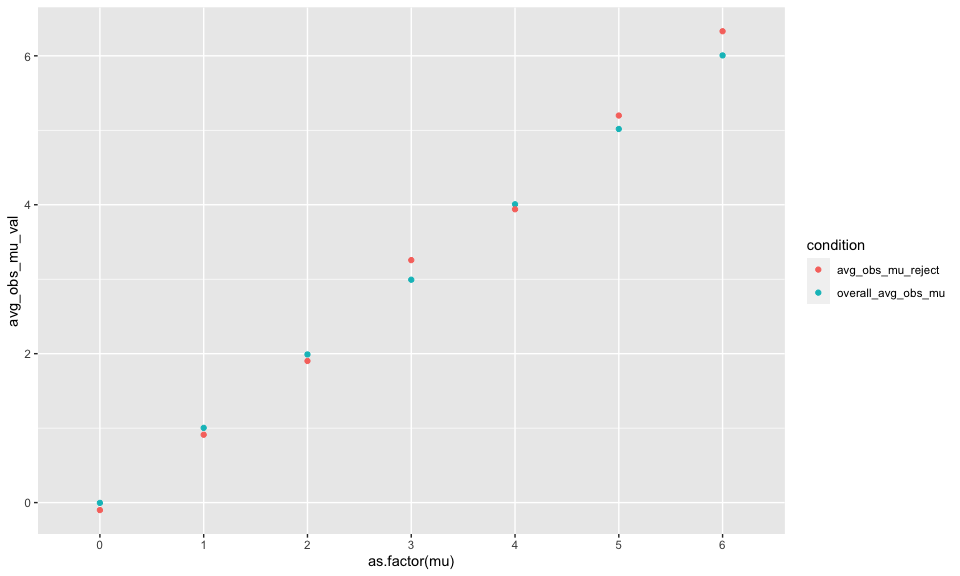
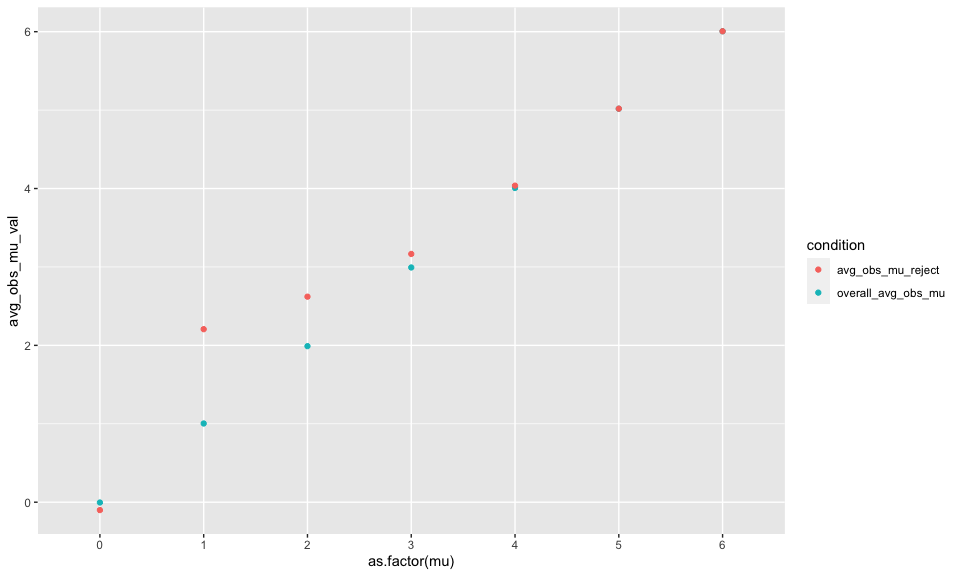
fixed the smol misunderstanding at p3 :')

diff --git a/p8105_hw5_td2749.md b/p8105_hw5_td2749.md
@@ -101,7 +101,10 @@ baltimore_proptest %>% pull(conf.high)
 ``` r
 homicide_prop_results =
   homicide_data %>% 
-    mutate(purrr::map2_df(.x = unsolved_cases, .y = total_cases, ~broom::tidy(prop.test(x = .x, n = .y)))) %>%
+    mutate(
+      result = purrr::map2_df(.x = unsolved_cases, .y = total_cases, ~broom::tidy(prop.test(x = .x, n = .y)))
+      ) %>%
+    unnest(result) %>% 
     select(city_state, unsolved_cases, total_cases, estimate, conf.low, conf.high) %>% 
     rename(unsolved_prop = estimate) %>% 
     mutate(conf_int = paste("(", round(conf.low, 3), ",", round(conf.high, 3), ")")) %>% 
@@ -167,7 +170,7 @@ norm_and_t_test = function(mu) {
   )
   
   sim_data %>%
-    summarize(broom::tidy(t.test(x, mu = mu, conf.level = 0.95, alternative = "two.sided"))) %>% 
+    summarize(broom::tidy(t.test(x, mu = 0, conf.level = 0.95, alternative = "two.sided"))) %>% 
     select(estimate, p.value) %>% 
     rename(obs_mu = estimate, p_value = p.value)
     
@@ -186,7 +189,7 @@ sim_results_df =
 ``` r
 sim_results_df %>% 
   mutate(indicator = case_when(p_value < 0.05 ~ "reject",
-                               p_value > 0.05 ~ "fail_to_reject")) %>% 
+                               p_value >= 0.05 ~ "fail_to_reject")) %>% 
   group_by(mu, indicator) %>%
   summarize(counts = n()) %>% 
   pivot_wider(names_from = indicator, values_from = counts) %>% 
@@ -204,6 +207,8 @@ sim_results_df %>%
 
     ## `summarise()` has grouped output by 'mu'. You can override using the `.groups`
     ## argument.
+
+    ## Warning: Removed 1 rows containing missing values (geom_point).
 
 <img src="p8105_hw5_td2749_files/figure-gfm/plot - proportion of rejections vs mu-1.png" width="90%" />
 **Association between effect size and power**:
